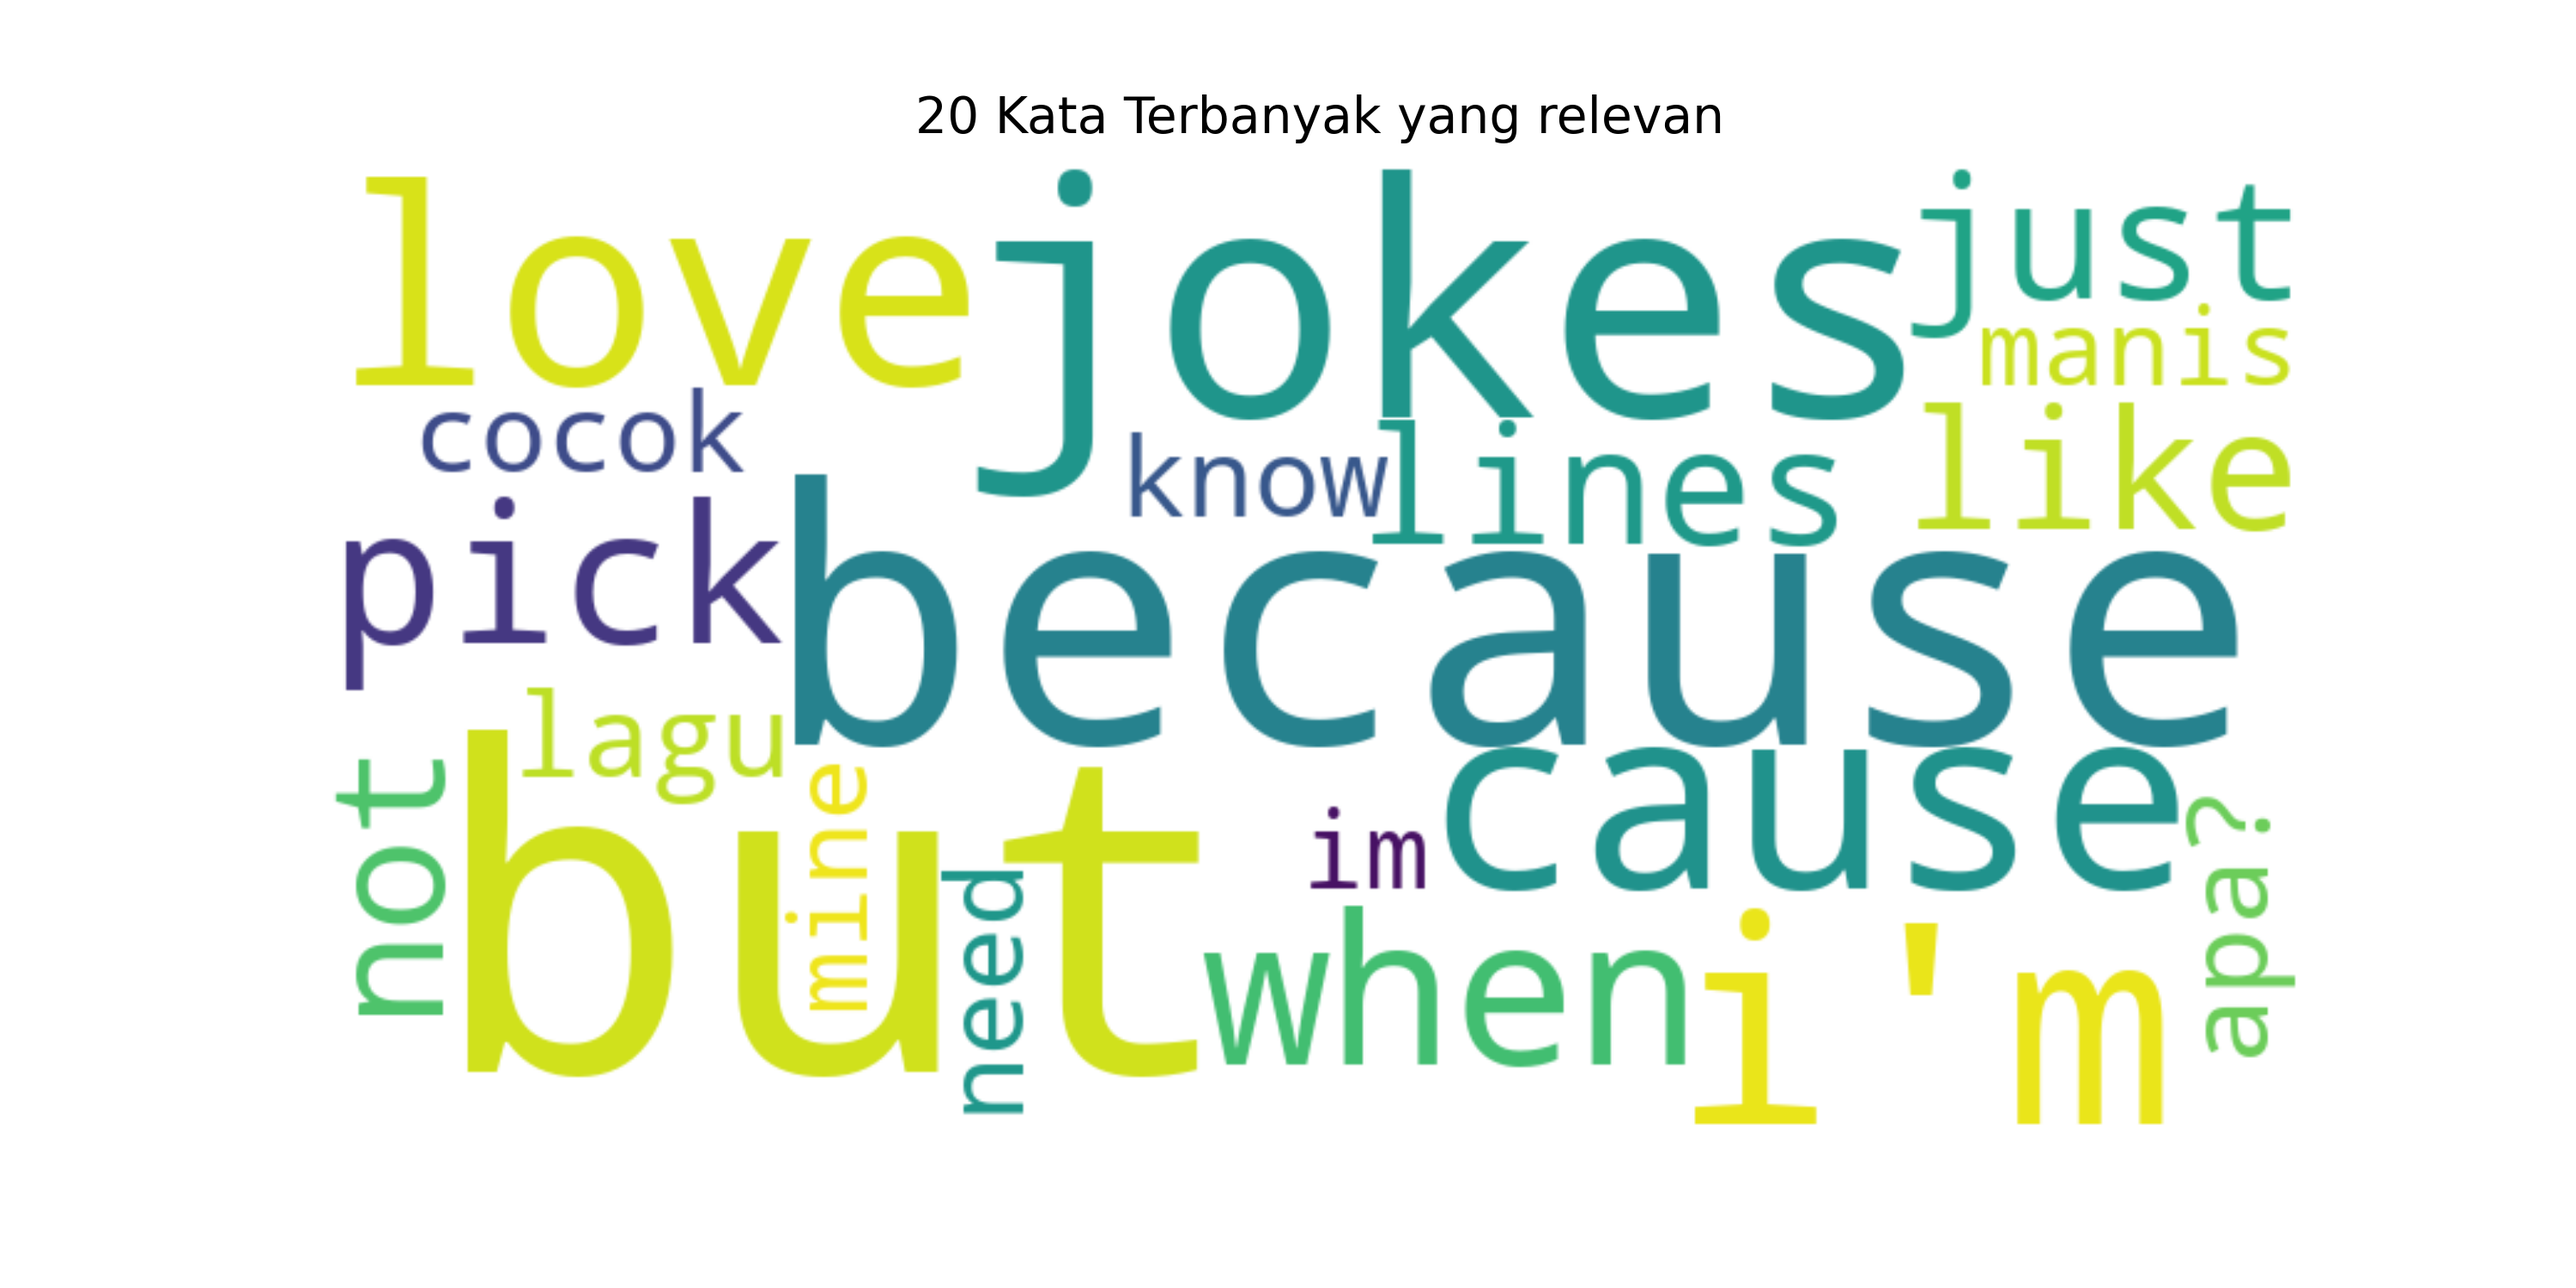
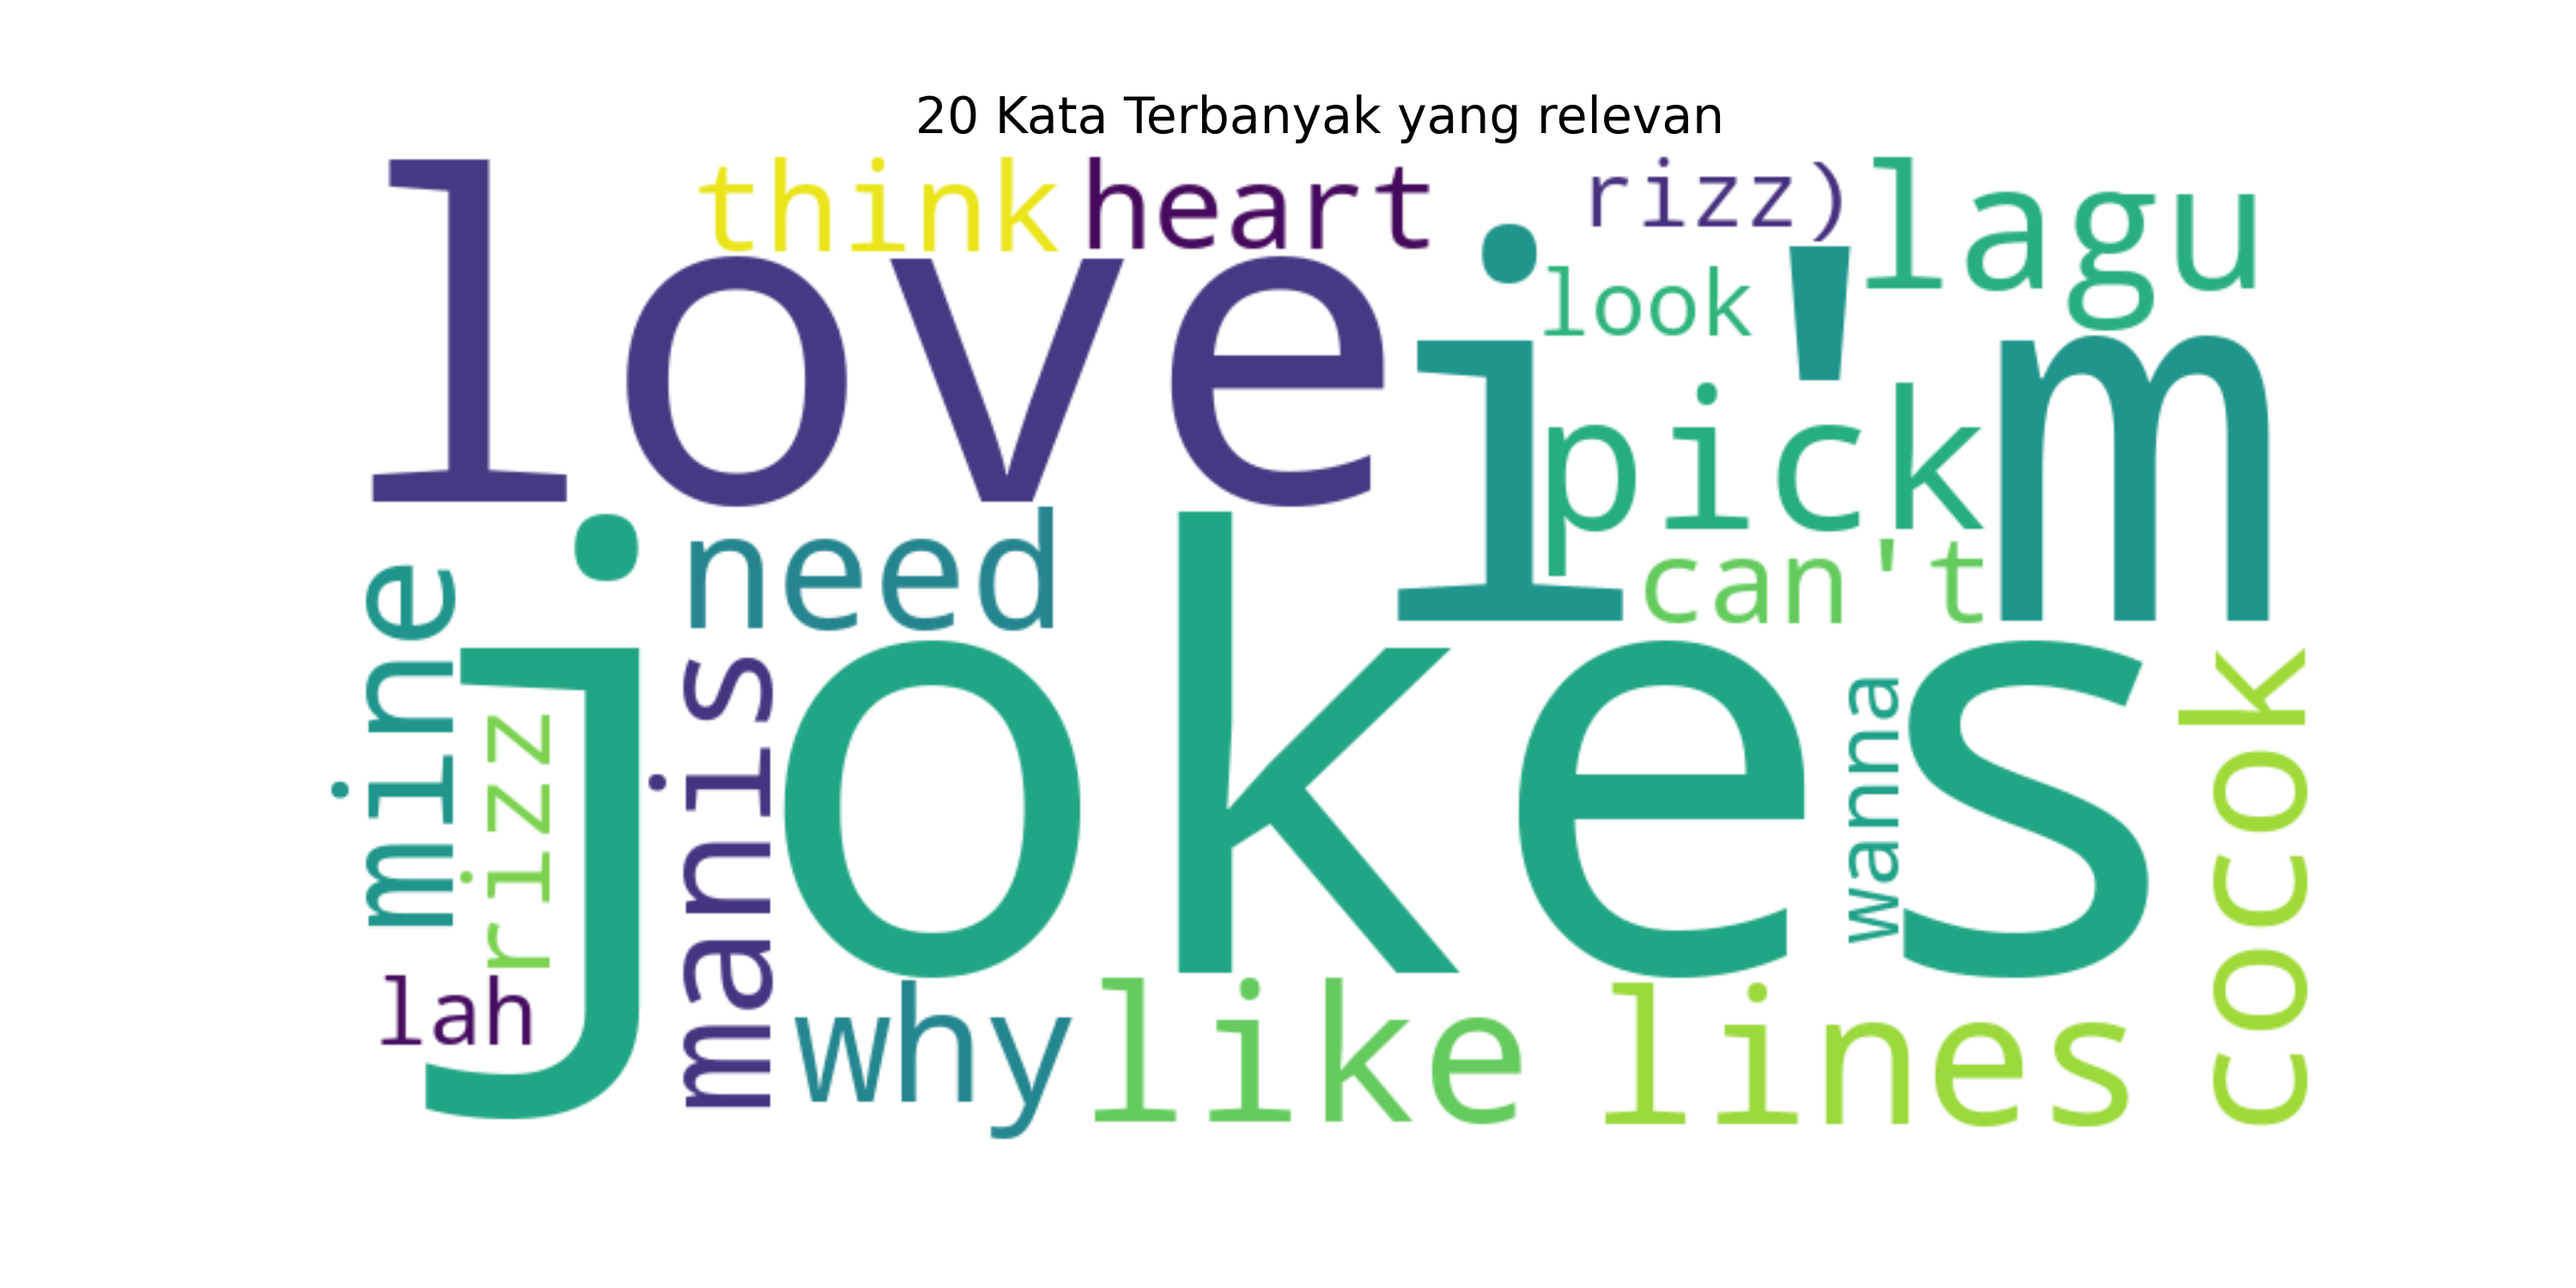
final

Changed region(s): [[0.124, 0.1227, 0.899, 0.8893]]

diff --git a/Sigma/bot3.py b/Sigma/bot3.py
@@ -4,11 +4,11 @@ import os
 
 # List URL TikTok posts
 post_urls = [
-    'https://www.tiktok.com/@thejokels/video/7366140715606265093',  # Ganti dengan URL video pertama
-    'https://www.tiktok.com/@rusdi.curington/video/7398819986409590021',  # Ganti dengan URL video kedua
-    'https://www.tiktok.com/@sigma_troll/video/7238644139477273862',  # Ganti dengan URL video ketiga
-    'https://www.tiktok.com/@admin.sikma_/video/7381649643249143045',  # Ganti dengan URL video keempat
-    'https://www.tiktok.com/@mrci.tv/video/7379185769686027526'   # Ganti dengan URL video kelima
+    'https://www.tiktok.com/@thejokels/video/7366140715606265093',  
+    'https://www.tiktok.com/@rusdi.curington/video/7398819986409590021',  
+    'https://www.tiktok.com/@sigma_troll/video/7238644139477273862',  
+    'https://www.tiktok.com/@admin.sikma_/video/7381649643249143045',  
+    'https://www.tiktok.com/@mrci.tv/video/7379185769686027526'   
 ]
 
 # Headers untuk request

diff --git a/Sigma/visualisasi3.py b/Sigma/visualisasi3.py
@@ -13,7 +13,7 @@ stopwords = {
     'lu', 'tau', 'bg', 'abdi', 'jadi', 'ku', 'geda', 'jir', 'makan', 'gini', 'sih', 'bgt', 'mana', 'dia', 'the', 'suka', 'banget', 'kata',
     'me', 'i', 'you', 'are', 'a', 'is', 'to', 'and', 'be', ':', '.', '!', '?', ',', 'the', 'of', 'for', 'on', 'at', 'by', 'with', 'as', 'this', 'that', 
     'it', 'in', 'an', 'from', 'up', 'down', 'out', 'all', 'some', 'more', 'no', 'so', 'much', 'than', 'its', 'have', 'had', 'having','gw:','dia:','if','kenapa','my','u','your',
-    'do','ngerti','cuz','see','can','sigma','bintang','toilet','what','orang'}
+    'do','ngerti','cuz','see','can','sigma','bintang','toilet','what','orang','anjir','dikit','semua'}
 
 # Fungsi untuk menghapus emotikon dari teks
 def remove_emoticons(text):

diff --git a/Rizz/visualisasi2.py b/Rizz/visualisasi2.py
@@ -12,7 +12,7 @@ stopwords = {
     'lu', 'tau', 'bg', 'abdi', 'jadi', 'ku', 'geda', 'jir', 'makan', 'gini', 'sih', 'bgt', 'mana', 'dia', 'the', 'suka', 'banget', 'kata',
     'me', 'i', 'you', 'are', 'a', 'is', 'to', 'and', 'be', ':', '.', '!', '?', ',', 'the', 'of', 'for', 'on', 'at', 'by', 'with', 'as', 'this', 'that', 
     'it', 'in', 'an', 'from', 'up', 'down', 'out', 'all', 'some', 'more', 'no', 'so', 'much', 'than', 'its', 'have', 'had', 'having','gw:','dia:','if','kenapa','my','u','your',
-    'do','ngerti','cuz','see','can'
+    'do','ngerti','cuz','see','can','but','know','just','apa?','not','because','cause','im','without','kak','can','one','only','when','aku:'
 }
 
 def remove_emoticons(text):

diff --git a/Skibidi/visualisasi.py b/Skibidi/visualisasi.py
@@ -10,7 +10,8 @@ stopwords = {
     'kamu', 'saya', 'aku', 'nya', 'yg', 'ga', 'gak', 'tidak', 'aja', 'loh', 'deh',
     'kok', 'nih', 'dong', 'kayak', 'juga', 'buat', 'kalo', 'kalau', 'udah', 'belum',
     'bisa', 'karena', 'hanya', 'lebih', 'masih', 'bukan', 'ada', 'mau', 'sama', 'ya', 'apa', 'bang', 'gitu', 'tapi', 'gk', 'kek', '😭', 'lagi', 'untung',
-    'lu', 'tau', 'bg', 'abdi', 'jadi', 'ku', 'geda', 'jir', 'makan', 'gini', 'sih', 'bgt', 'mana', 'dia', 'the', 'suka', 'banget', 'kata'
+    'lu', 'tau', 'bg', 'abdi', 'jadi', 'ku', 'geda', 'jir', 'makan', 'gini', 'sih', 'bgt', 'mana', 'dia', 'the', 'suka', 'banget', 'kata',
+    'ngerti','bintang'
 }
 
 # Fungsi untuk menghapus emotikon dari teks
